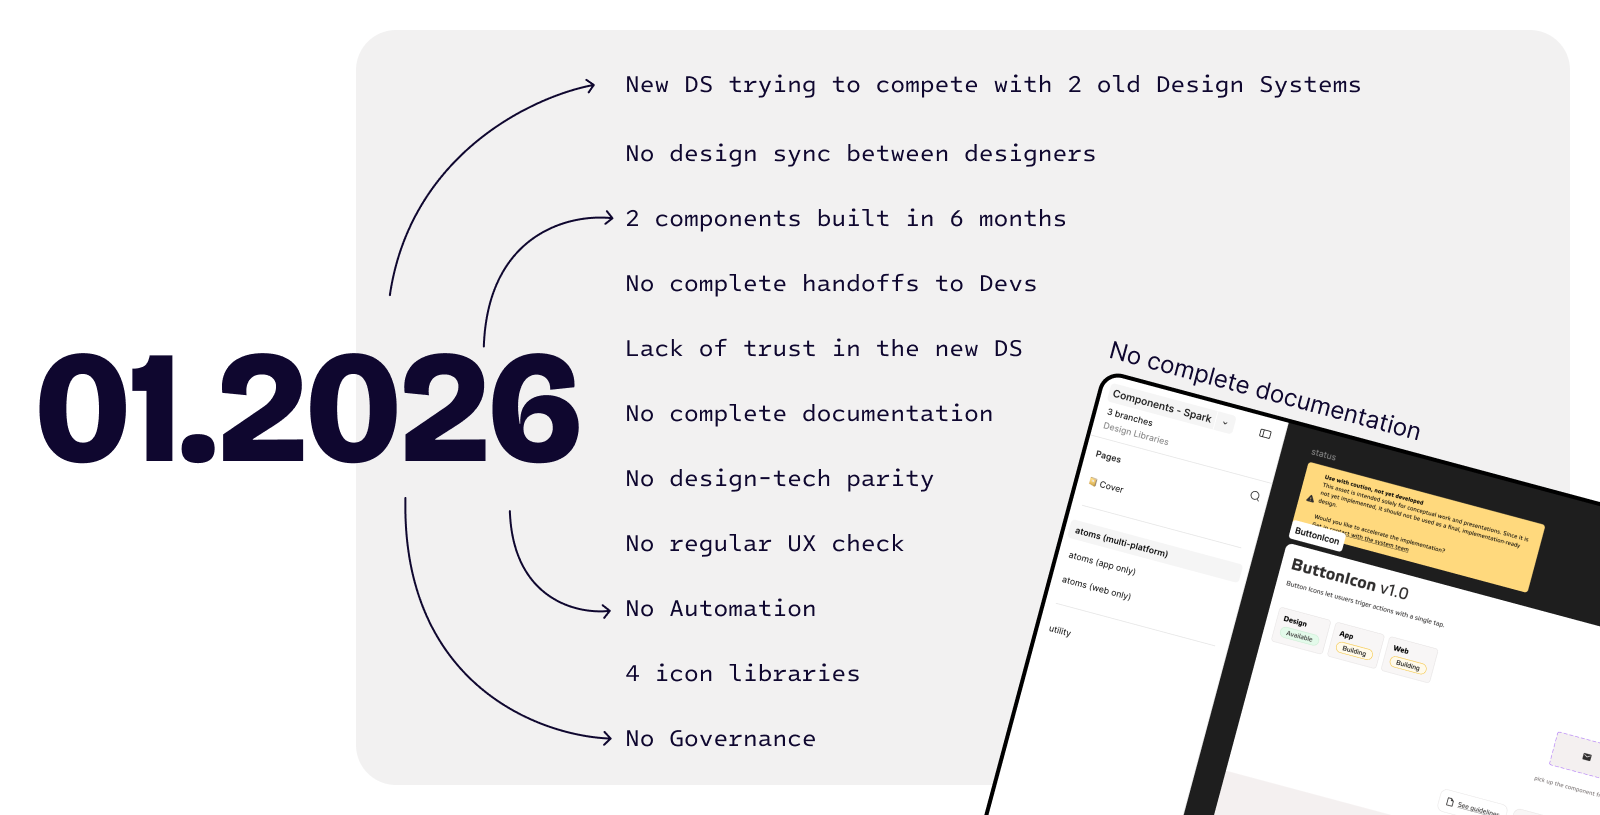
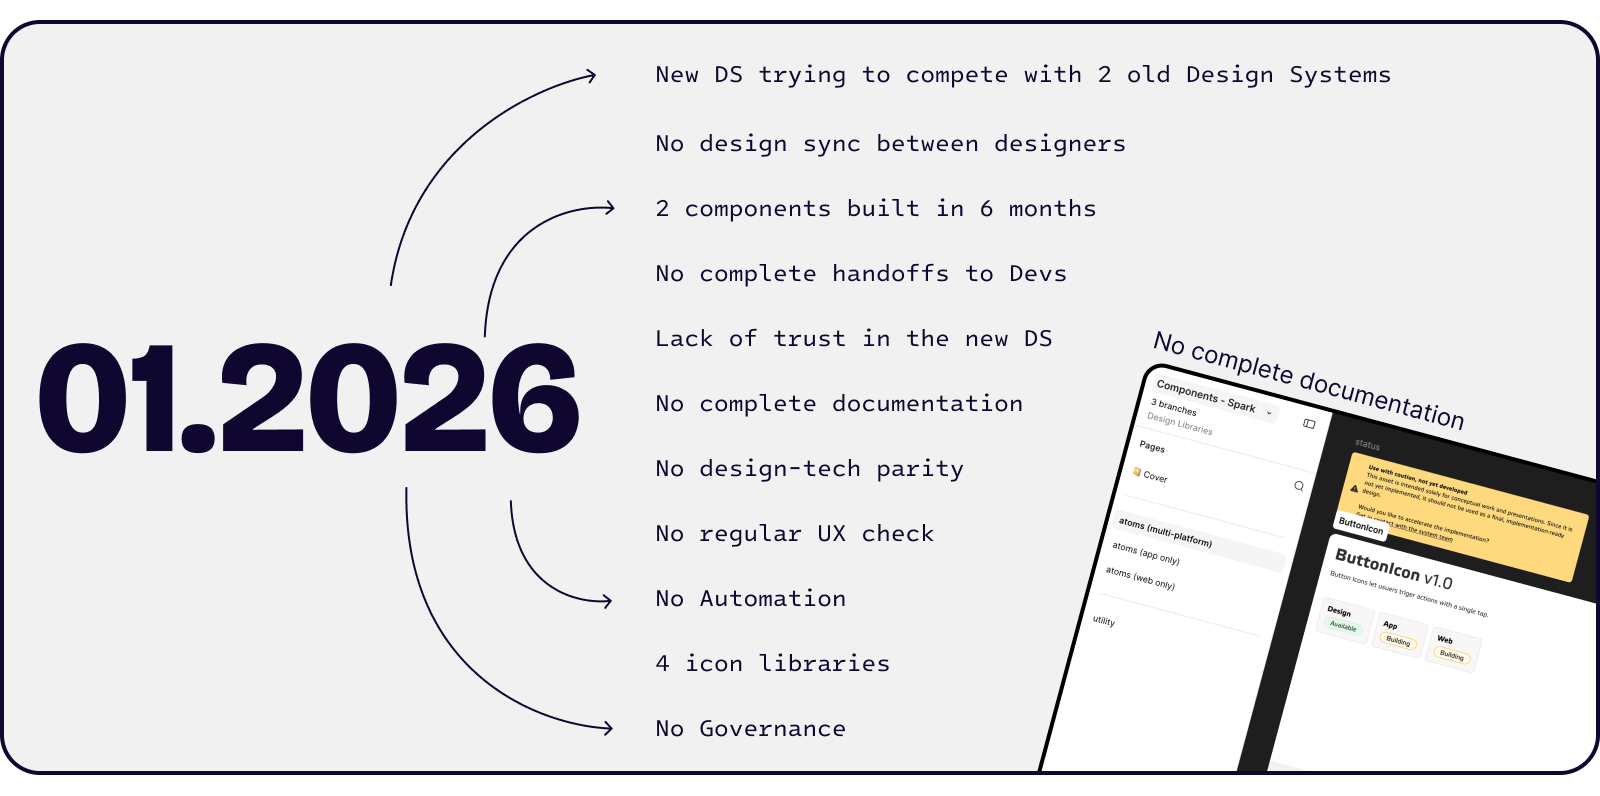
Added links to fonts and updated image

diff --git a/private/5face4c93baff88a89a7fb13a3cebba9f4f93634/index.html b/private/5face4c93baff88a89a7fb13a3cebba9f4f93634/index.html
@@ -25,14 +25,14 @@
   <link href="../../assets/img/favicon.ico" rel="icon">
 
   <!-- Google Fonts -->
-  <link rel="preconnect" href="../../https://fonts.googleapis.com">
-  <link rel="preconnect" href="../../https://fonts.gstatic.com" crossorigin>
-  <link href="../../https://fonts.googleapis.com/css2?family=Raleway:wght@400;500;600;700;800&display=swap"
+  <link rel="preconnect" href="https://fonts.googleapis.com">
+  <link rel="preconnect" href="https://fonts.gstatic.com" crossorigin>
+  <link href="https://fonts.googleapis.com/css2?family=Inter:wght@300;400;500;600;700;800;900&display=swap"
     rel="stylesheet">
-  <link href="../../https://fonts.googleapis.com/css2?family=Inter:wght@300;400;500;600;700;800;900&display=swap"
+  <link href="https://fonts.googleapis.com/css2?family=Bricolage+Grotesque:opsz,wght@12..96,200..800&display=swap"
     rel="stylesheet">
   <link
-    href="../../https://fonts.googleapis.com/css2?family=Open+Sans:ital,wght@0,300;0,400;0,500;0,600;0,700;0,800;1,300;1,400;1,500;1,600;1,700;1,800&display=swap"
+    href="https://fonts.googleapis.com/css2?family=Open+Sans:ital,wght@0,300;0,400;0,500;0,600;0,700;0,800;1,300;1,400;1,500;1,600;1,700;1,800&display=swap"
     rel="stylesheet">
 
   <!-- Vendor CSS Files -->

diff --git a/private/index.html b/private/index.html
@@ -21,7 +21,7 @@
   <link href="https://fonts.googleapis.com/css2?family=Bricolage+Grotesque:opsz,wght@12..96,200..800&display=swap"
     rel="stylesheet">
   <link
-    href="https://fonts.googleapis.com/css?family=Open+Sans:300,300i,400,400i,600,600i,700,700i|Nunito:300,300i,400,400i,600,600i,700,700i|Poppins:300,300i,400,400i,500,500i,600,600i,700,700i"
+    href="https://fonts.googleapis.com/css2?family=Open+Sans:ital,wght@0,300;0,400;0,500;0,600;0,700;0,800;1,300;1,400;1,500;1,600;1,700;1,800&display=swap"
     rel="stylesheet">
 
   <!-- Vendor CSS Files -->
